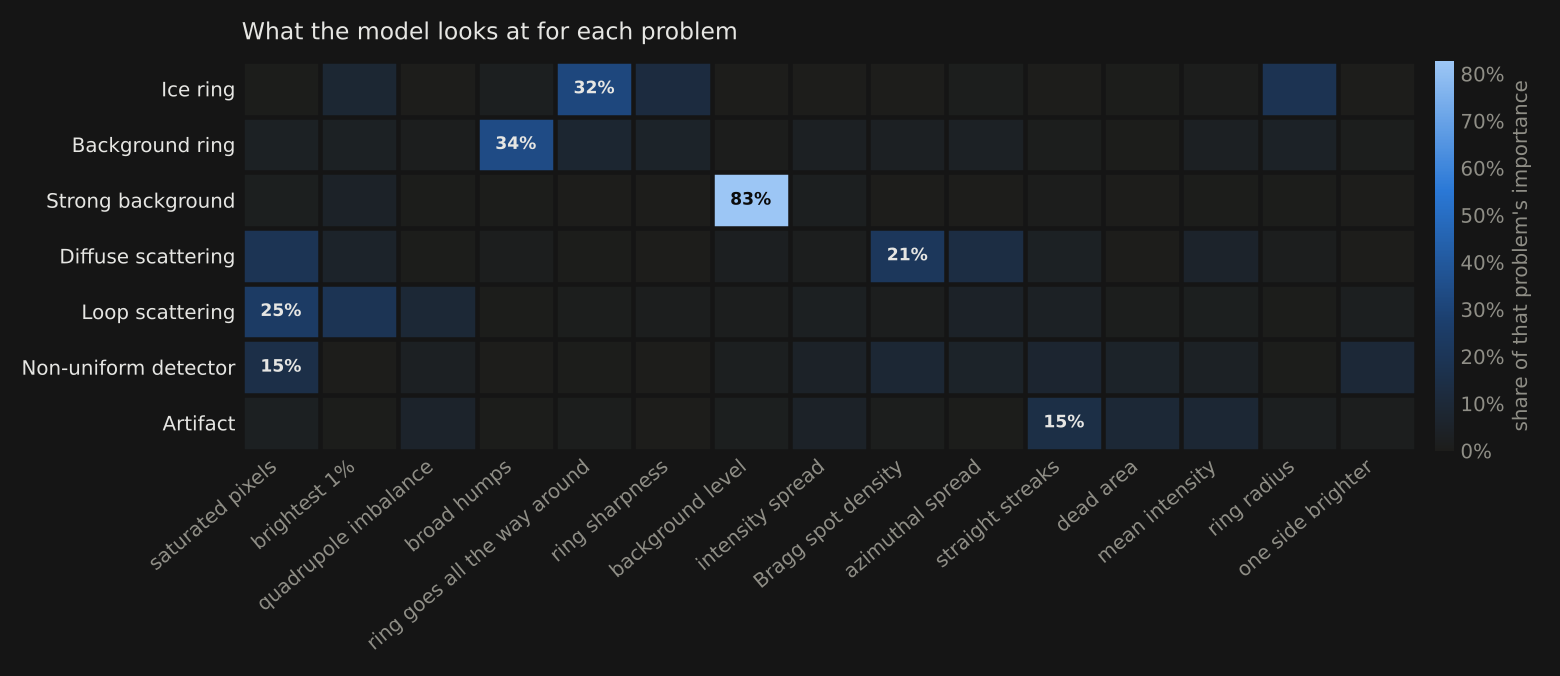
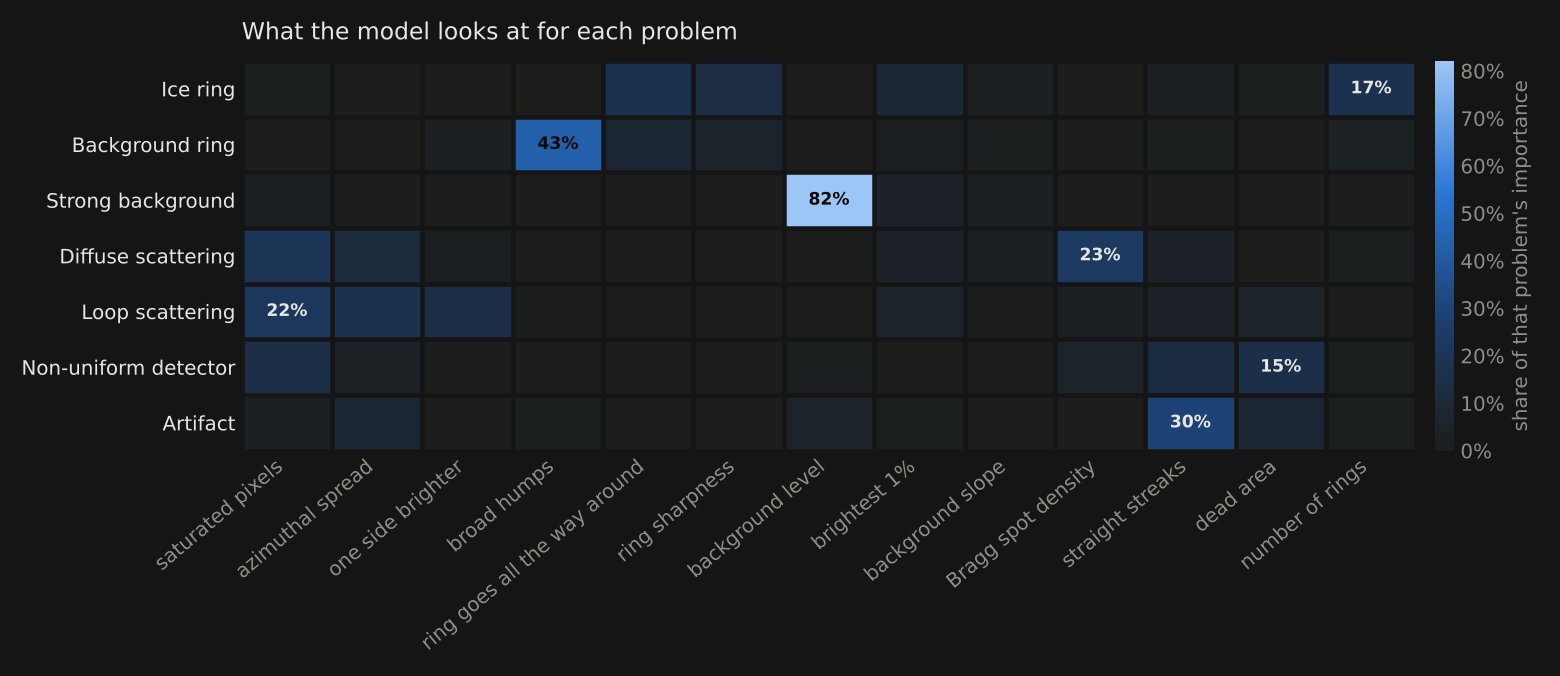
commit!

diff --git a/XRD-Image-Anomaly-Detection/xrdpipe/preprocess.py b/XRD-Image-Anomaly-Detection/xrdpipe/preprocess.py
@@ -1,8 +1,10 @@
 """Geometry and reduction: detector mask, beam centre, azimuthal integration."""
 from __future__ import annotations
 
+from functools import lru_cache
+
 import numpy as np
-from scipy import ndimage, optimize
+from scipy import ndimage
 
 
 def detector_mask(img: np.ndarray, dead_value: float = 0.0, min_area: int = 50) -> np.ndarray:
@@ -18,9 +20,15 @@ def detector_mask(img: np.ndarray, dead_value: float = 0.0, min_area: int = 50) 
     return ~big
 
 
+@lru_cache(maxsize=8)
+def _grid(shape):
+    yy, xx = np.indices(shape, dtype=np.float32)
+    return yy, xx
+
+
 def _polar(shape, center):
-    yy, xx = np.indices(shape)
-    dy, dx = yy - center[0], xx - center[1]
+    yy, xx = _grid(tuple(shape))
+    dy, dx = yy - np.float32(center[0]), xx - np.float32(center[1])
     return np.hypot(dy, dx), np.arctan2(dy, dx)
 
 
@@ -45,29 +53,73 @@ def radial_profile(img, mask, center, n_bins=256, n_sectors=1):
     return r_cent, prof
 
 
-def find_beam_center(img, mask, guess=None, search=40, downsample=4):
-    """Refine the beam centre by maximising azimuthal symmetry.
+def _symmetry_cost(img, mask, center, n_bins=64, n_sectors=8):
+    """How much 8 azimuthal sectors' radial profiles disagree (lower = more symmetric)."""
+    _, p = radial_profile(img, mask, center, n_bins=n_bins, n_sectors=n_sectors)
+    p = np.log1p(np.nan_to_num(p, nan=np.nanmean(p)))  # log: faint outer rings count too
+    return float(np.nanmean(np.nanstd(p, axis=0)))
 
-    PNGs carry no geometry header, so we pick the centre that minimises the
-    spread between 8 azimuthal sectors of the radial profile. Done on a
-    downsampled image for speed, then scaled back.
+
+def find_beam_center(img, mask, guess=None, search=80):
+    """Find the beam centre as the most azimuthally symmetric point.
+
+    PNGs carry no geometry header. Coarse-to-fine grid search: the symmetry
+    cost is lumpy (radial binning makes it step-like), so a local optimiser
+    like Nelder-Mead can stall on a plateau. Each stage searches a smaller
+    window around the previous best, on a less downsampled image.
     """
     if guess is None:
         guess = (img.shape[0] / 2, img.shape[1] / 2)
-    small = img[::downsample, ::downsample]
-    smask = mask[::downsample, ::downsample]
-    g = np.array(guess) / downsample
+    best = np.array(guess, float)
+    #          (downsample, half-width px, step px)
+    stages = [(8, search, 8), (4, 8, 2), (2, 2, 1)]
+    for ds, half, step in stages:
+        small, smask = img[::ds, ::ds], mask[::ds, ::ds]
+        offs = np.arange(-half, half + 1e-9, step)
+        cands = [best + [dy, dx] for dy in offs for dx in offs]
+        costs = [_symmetry_cost(small, smask, c / ds) for c in cands]
+        best = cands[int(np.argmin(costs))]
+    return tuple(best)
 
-    def cost(c):
-        _, p = radial_profile(small, smask, c, n_bins=64, n_sectors=8)
-        p = np.log1p(np.nan_to_num(p, nan=np.nanmean(p)))
-        return float(np.nanmean(np.nanstd(p, axis=0)))
 
-    res = optimize.minimize(cost, g, method="Nelder-Mead",
-                            options={"xatol": 0.25, "fatol": 1e-5, "initial_simplex":
-                                     [g, g + [search / downsample / 4, 0], g + [0, search / downsample / 4]]})
-    c = res.x * downsample
-    # keep the refined centre only if it stayed within the search window
-    if np.hypot(*(c - np.array(guess))) > search:
-        return tuple(guess)
-    return tuple(c)
+def beamstop_mask(img, center, ratio=0.6, reach=60, min_area=200, downsample=2):
+    """True for pixels in the beamstop shadow (disc + support arm).
+
+    The shadow isn't zero in RefleX PNGs (often 30-60% of the local level),
+    so a near-zero test misses it. Instead: flag pixels much darker than the
+    median at their radius, then keep only connected regions that reach the
+    beam centre, which is what a beamstop and its arm look like. Detector gaps
+    and spots far from the centre are left alone.
+    """
+    ds = downsample
+    s = ndimage.gaussian_filter(img[::ds, ::ds], 1.5)
+    yy, xx = np.indices(s.shape)
+    r = np.hypot(yy - center[0] / ds, xx - center[1] / ds).astype(int)
+    order = np.argsort(r, axis=None)
+    r_sorted, v_sorted = r.ravel()[order], s.ravel()[order]
+    edges = np.flatnonzero(np.diff(r_sorted)) + 1
+    meds = np.array([np.median(c) for c in np.split(v_sorted, edges)])
+    radial_med = np.zeros(r.max() + 1)
+    radial_med[r_sorted[np.r_[0, edges]]] = meds
+    dark = s < ratio * radial_med[r]
+    lab, n = ndimage.label(dark)
+    if n == 0:
+        return np.zeros(img.shape, bool)
+    near = np.unique(lab[(r <= reach / ds) & dark])
+    sizes = np.bincount(lab.ravel())
+    keep = [k for k in near if k and sizes[k] * ds * ds >= min_area]
+    m = ndimage.binary_dilation(np.isin(lab, keep), iterations=2)
+    full = np.repeat(np.repeat(m, ds, axis=0), ds, axis=1)[: img.shape[0], : img.shape[1]]
+    return full
+
+
+def refine_center_and_mask(img, base_mask, n_iter=1):
+    """Alternate beamstop masking and centring: a better centre gives a cleaner
+    shadow mask, and a cleaner mask gives a less biased centre."""
+    center = (img.shape[0] / 2, img.shape[1] / 2)
+    mask = base_mask
+    for _ in range(n_iter):
+        mask = base_mask & ~beamstop_mask(img, center)
+        center = find_beam_center(img, mask)
+    mask = base_mask & ~beamstop_mask(img, center)
+    return center, mask

diff --git a/XRD-Image-Anomaly-Detection/scripts/validate_center.py b/XRD-Image-Anomaly-Detection/scripts/validate_center.py
@@ -1,0 +1,49 @@
+"""Validate beam-centre finding against circle fits to ice rings.
+
+Ice rings are sharp, complete circles centred on the beam, so fitting a circle
+to one gives an independent estimate of the true centre. Compares the old
+centres (stored in data/features.csv) with the current code.
+Usage (from repo root): python3 scripts/validate_center.py [N]
+"""
+import sys, random
+import numpy as np, pandas as pd
+from scipy import ndimage, optimize
+from xrdpipe.io import load_image, find_images, load_labels
+from xrdpipe.preprocess import detector_mask, refine_center_and_mask, radial_profile
+
+
+def ring_fit(a, guess, r_lo, r_hi):
+    s = ndimage.gaussian_filter(a, 1.5); pts = []
+    for t in np.linspace(0, 2 * np.pi, 180, endpoint=False):
+        rr = np.arange(r_lo, r_hi, 0.5); y = guess[0] + rr * np.sin(t); x = guess[1] + rr * np.cos(t)
+        ok = (y > 0) & (y < a.shape[0] - 1) & (x > 0) & (x < a.shape[1] - 1)
+        if ok.sum() < 10: continue
+        v = ndimage.map_coordinates(s, [y[ok], x[ok]], order=1); k = np.argmax(v)
+        if v[k] > np.median(v) * 1.15: pts.append((y[ok][k], x[ok][k]))
+    P = np.array(pts)
+    if len(P) < 120: return None
+    f = lambda c: np.std(np.hypot(P[:, 0] - c[0], P[:, 1] - c[1]))
+    c = optimize.minimize(f, guess, method='Nelder-Mead').x
+    spread = f(c)
+    return c if spread < 2.0 else None     # only trust clean, complete rings
+
+
+N = int(sys.argv[1]) if len(sys.argv) > 1 else 30
+im = find_images('images/reflex_img_1024_inter_nearest')
+L = load_labels('data/labels.csv'); F = pd.read_csv('data/features.csv', index_col=0); F.index = F.index.astype(str)
+ice = sorted(L.index[L['Ice Ring'] == 1]); random.seed(0); random.shuffle(ice)
+rows = []
+for n in ice:
+    if len(rows) >= N: break
+    a = load_image(im[n]); c_new, m = refine_center_and_mask(a, detector_mask(a, dead_value=6.0))
+    r, p = radial_profile(a, m, c_new, 256, 1); p = np.nan_to_num(p[0])
+    base = ndimage.median_filter(np.log1p(p), 85); k = 16 + int(np.argmax((np.log1p(p) - base)[16:]))
+    truth = ring_fit(a, c_new, r[k] - 20, r[k] + 20)
+    if truth is None: continue
+    c_old = np.array([512 + F.loc[n, 'center_dy'], 512 + F.loc[n, 'center_dx']])
+    rows.append((n, np.hypot(*(c_old - truth)), np.hypot(*(np.array(c_new) - truth))))
+R = pd.DataFrame(rows, columns=['image', 'old_err_px', 'new_err_px'])
+print(R.round(2).to_string(index=False))
+print(f"\n{len(R)} ice images with a clean ring fit")
+for col in ('old_err_px', 'new_err_px'):
+    e = R[col]; print(f"{col}: median {e.median():.2f}  90th pct {e.quantile(.9):.2f}  max {e.max():.2f}  >5px {np.mean(e > 5):.0%}")

diff --git a/XRD-Image-Anomaly-Detection/xrdpipe/features.py b/XRD-Image-Anomaly-Detection/xrdpipe/features.py
@@ -16,7 +16,7 @@ import numpy as np
 from scipy import ndimage, signal
 from skimage.morphology import disk, white_tophat
 
-from .preprocess import detector_mask, find_beam_center, radial_profile
+from .preprocess import detector_mask, radial_profile, refine_center_and_mask
 
 N_BINS = 256
 N_SECTORS = 16
@@ -41,7 +41,10 @@ def extract_features(img: np.ndarray, refine_center: bool = True) -> tuple[dict,
 
 def _extract(img, refine_center):
     mask = detector_mask(img, dead_value=6.0)
-    center = find_beam_center(img, mask) if refine_center else (img.shape[0] / 2, img.shape[1] / 2)
+    if refine_center:
+        center, mask = refine_center_and_mask(img, mask)
+    else:
+        center = (img.shape[0] / 2, img.shape[1] / 2)
     # median over azimuthal sectors: robust to Bragg spots, keeps true rings
     r, sect = radial_profile(img, mask, center, N_BINS, N_SECTORS)
     with np.errstate(all="ignore"):

diff --git a/XRD-Image-Anomaly-Detection/scripts/make_heatmap.py b/XRD-Image-Anomaly-Detection/scripts/make_heatmap.py
@@ -8,7 +8,7 @@ for c in share.columns:
     for f in share[c].nlargest(3).index:
         if f not in feats: feats.append(f)
 nice = {"ring_frac_sectors_lit":"ring goes all the way around","ring_radius_frac":"ring radius",
- "ring_max_prom":"ring sharpness","ring_prom_2":"2nd ring sharpness","bg_level":"background level",
+ "ring_max_prom":"ring sharpness","ring_count":"number of rings","ring_prom_2":"2nd ring sharpness","bg_level":"background level",
  "bg_slope":"background slope","bg_inner":"inner background","diffuse_humps":"broad humps",
  "diffuse_energy":"diffuse texture","sector_range":"one side brighter","sector_h1":"left/right imbalance",
  "sector_h2":"quadrupole imbalance","sector_spread_by_r":"azimuthal spread","spot_frac":"Bragg spot density",

diff --git a/XRD-Image-Anomaly-Detection/scripts/make_hero.py b/XRD-Image-Anomaly-Detection/scripts/make_hero.py
@@ -17,7 +17,7 @@ prom=np.array([p[k]/d['baseline'][k] for k in pk]); top=pk[np.argsort(prom)[::-1
 for k in top:
     # partial arc, offset outward, so the ring itself stays visible
     a.add_patch(Arc((cx,cy),2*(r[k]+9),2*(r[k]+9),theta1=200,theta2=340,ec=HL,lw=2))
-a.set_title('Raw RefleX image (stored dark = strong)',color=INK,fontsize=12,loc='left')
+a.set_title('Raw RefleX image',color=INK,fontsize=12,loc='left')
 b.set_facecolor(BG); b.semilogy(r,p,color=ACC,lw=2,label='azimuthal average')
 b.semilogy(r,d['baseline'],color=MUTED,lw=1.2,ls='--',label='smooth background')
 b.plot(r[top],p[top]*1.12,'v',color=HL,ms=9,label='detected ice rings')

diff --git a/XRD-Image-Anomaly-Detection/index.md b/XRD-Image-Anomaly-Detection/index.md
@@ -25,14 +25,14 @@ On the dataset's held-out test set:
 
 | Problem | ROC-AUC | F1 |
 |---|---|---|
-| Strong background | 0.983 | 0.93 |
-| Ice ring | 0.972 | 0.78 |
-| Artifact | 0.931 | 0.77 |
-| Background ring | 0.924 | 0.89 |
-| Diffuse scattering | 0.918 | 0.44 |
-| Non-uniform detector | 0.895 | 0.77 |
-| Loop scattering | 0.862 | 0.74 |
-| **Average** | **0.927** | **0.76** |
+| Strong background | 0.983 | 0.92 |
+| Ice ring | 0.982 | 0.87 |
+| Artifact | 0.948 | 0.77 |
+| Background ring | 0.918 | 0.88 |
+| Diffuse scattering | 0.906 | 0.53 |
+| Non-uniform detector | 0.889 | 0.76 |
+| Loop scattering | 0.878 | 0.77 |
+| **Average** | **0.929** | **0.78** |
 
 ROC-AUC (0-0.1) measures how well the model ranks images with a problem above images without it. F1 measures how accurate the yes/no choices are.
 
